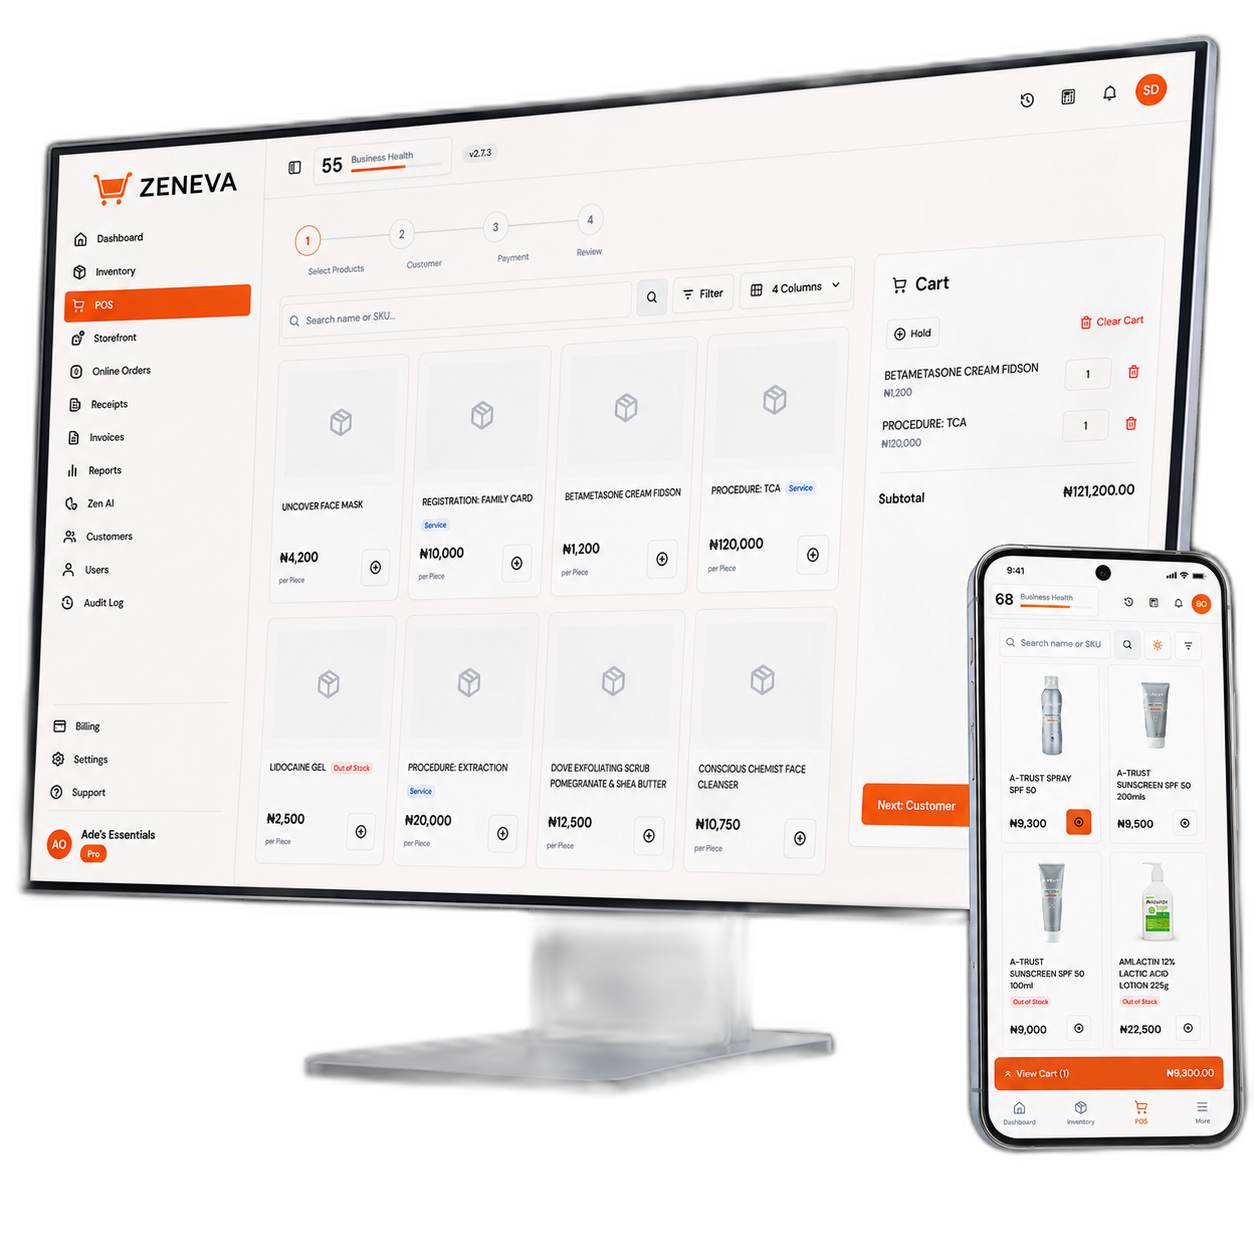
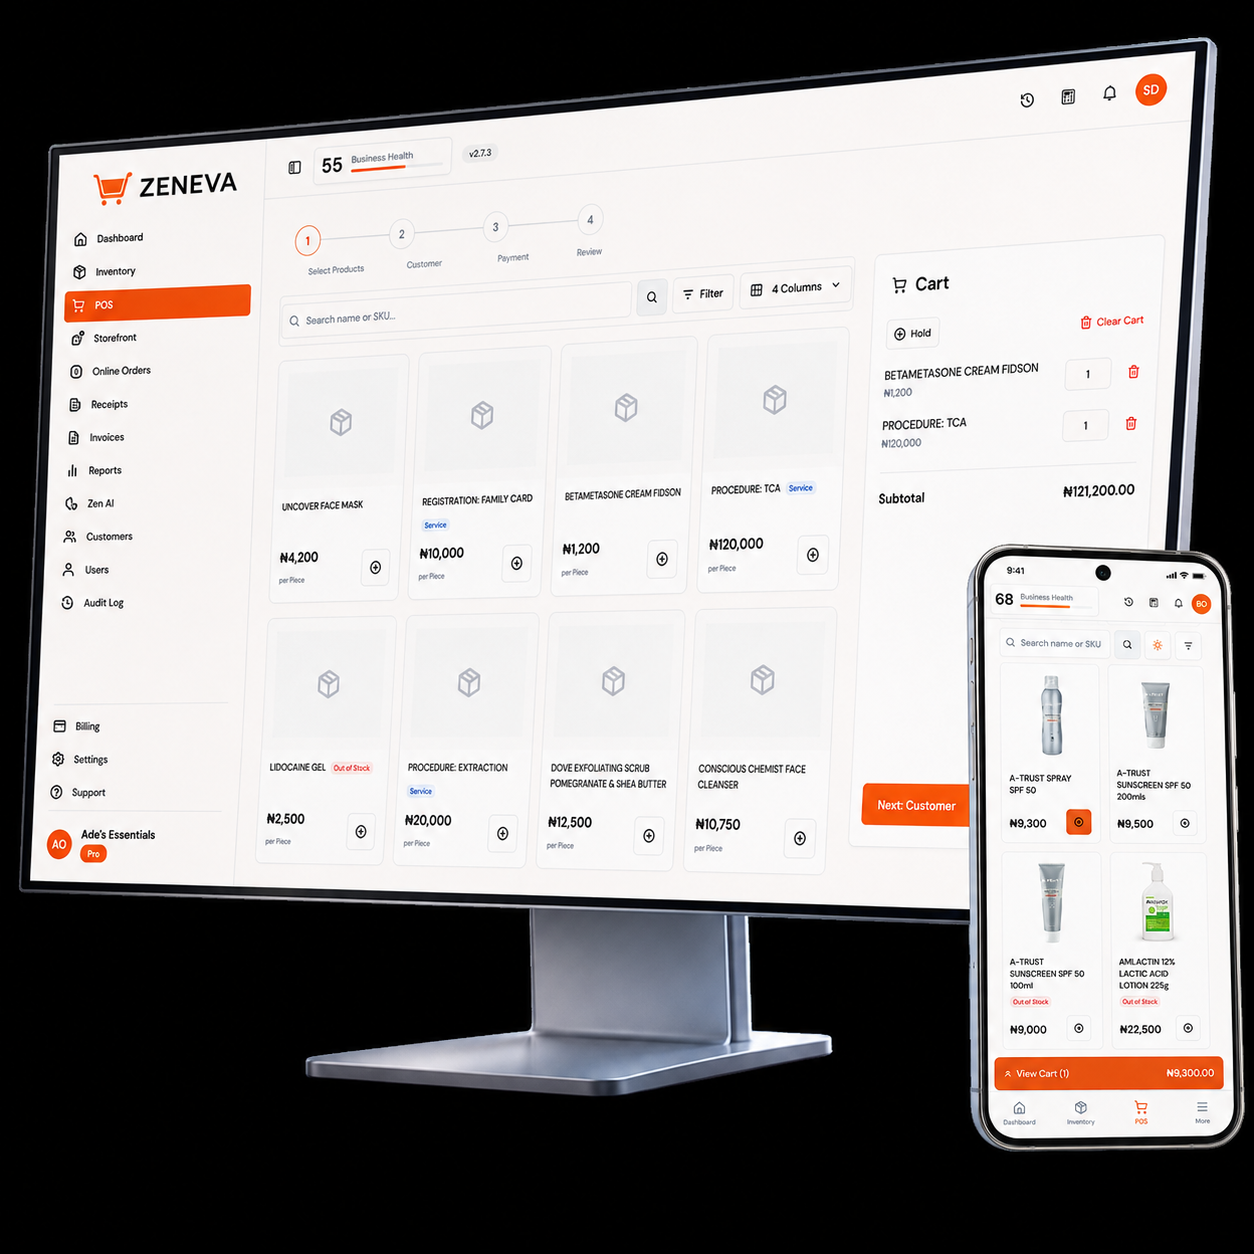
Add hero computer img original with transparent background and update hero section

diff --git a/src/app/home-client.tsx b/src/app/home-client.tsx
@@ -508,7 +508,7 @@ export default function Home() {
 
                             {/* Right Column: UI Mockups */}
                             <div className="mt-8 sm:mt-0 relative [perspective:1000px]">
-                                <Image src="/hero computer img2.png" alt="Product UI" width={1600} height={1200} className="w-full h-auto block" priority />
+                                <Image src="/hero computer img original.png" alt="Product UI" width={1600} height={1200} className="w-full h-auto block" priority />
                             </div>
                         </div>
                     </main>

diff --git a/src/app/page.tsx b/src/app/page.tsx
@@ -296,7 +296,7 @@ export default function Home() {
                             {/* Right Column: UI Mockups */}
                             <div className="mt-8 sm:mt-0 relative [perspective:1000px]">
                                 <Image
-                                    src="/hero computer img2.png"
+                                    src="/hero computer img original.png"
                                     alt="Product UI"
                                     width={1600}
                                     height={1200}
